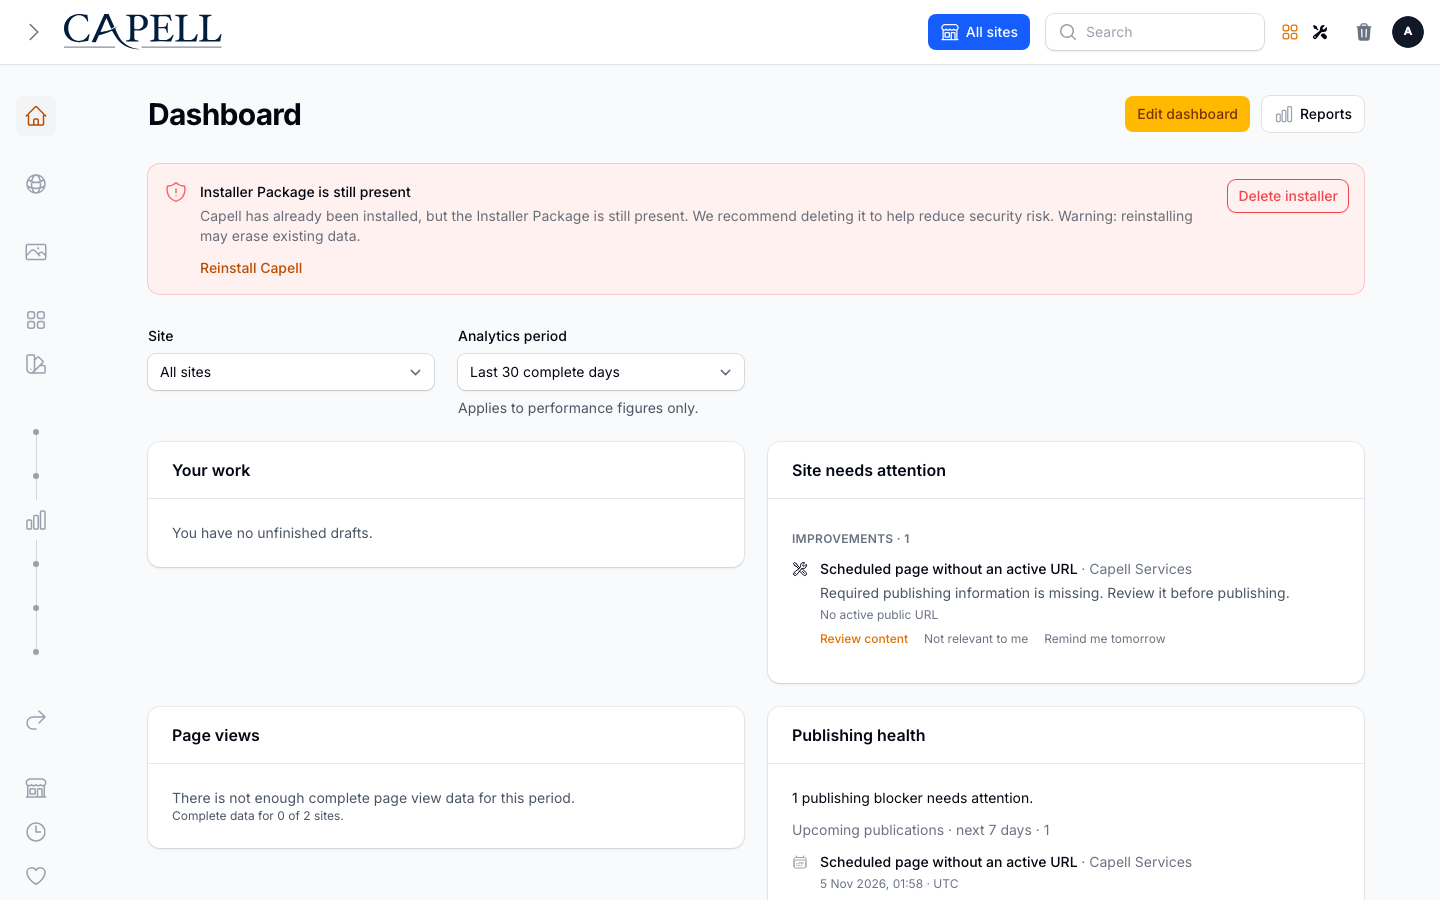
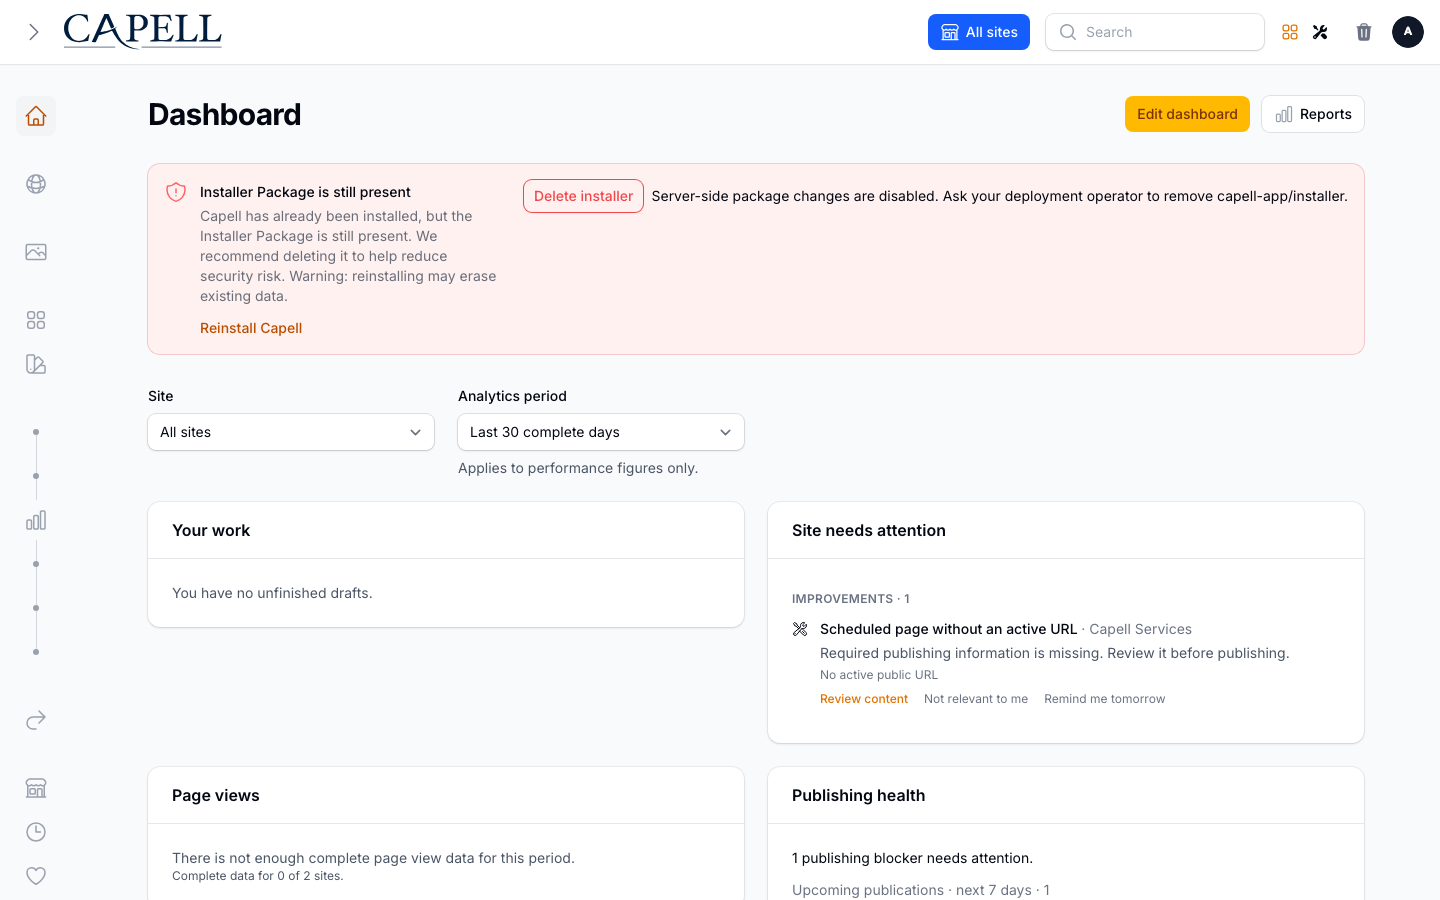
docs(admin): refresh verified dashboard captures and recovery evidence

diff --git a/docs/admin/dashboard-work-first-implementation.md b/docs/admin/dashboard-work-first-implementation.md
@@ -32,14 +32,14 @@ verification are tracked separately by the coordinating checkout.
 
 | Requirement                                        | Evidence and outstanding work                                                                                                                                                                                                                                                                                                                                                                                                           |
 | -------------------------------------------------- | --------------------------------------------------------------------------------------------------------------------------------------------------------------------------------------------------------------------------------------------------------------------------------------------------------------------------------------------------------------------------------------------------------------------------------------- |
-| Master fallback and per-widget switches            | Covered in `DefaultDashboardWidgetsTest.php`; disabled work and approvals provider calls are covered in `PersonalDraftsWidgetTest.php` and `ApprovalsWidgetTest.php`. The complete widget/job inventory still needs review.                                                                                                                                                                                                             |
+| Master fallback and per-widget switches | Focused configuration and provider-call tests cover the master fallback, short/class widget switches, mounted reads and preserved preferences. Native browser checks confirm master off/on behaviour. |
 | Personal layouts and scope                         | Order, hide/show, sizes, Save/Cancel, reset, separate site/All-sites storage and remembered scope have focused tests in `WorkFirstLayoutTest.php`, `WorkFirstScopeTest.php` and `AdminWorkspaceTest.php`. `WorkFirstStableRowsTest.php` covers update prompts and removal of unavailable rows. The chooser has grouped previews and separate ordering controls; it still needs shared-runner browser, keyboard and responsive evidence. |
-| Personal work and approvals                        | Authorised own drafts and provider scope forwarding have focused tests; Publishing Studio owns the provider implementation and separate integration evidence. End-to-end assignment, deadline priority, review onboarding and permission coverage remain outstanding.                                                                                                                                                                   |
-| Urgent summary, attention, publishing and activity | Separate work-first widgets are present; trace the coordinator’s tests and browser evidence before marking these complete. Optional content status and recently updated widgets are hidden by default and have site-scoped focused checks in `OptionalContentWidgetsTest.php`.                                                                                                                                                          |
+| Personal work and approvals | Native own-draft tests and Publishing Studio assignment/deadline/review tests cover scope and separate direct/shared counts. A real optional-provider browser fixture renders the inherited English approval and opens its comparison page; the fixture retains unrelated installation-health failures. |
+| Urgent summary, attention, publishing and activity | Purpose-designed widgets separate urgency and improvements, publishing readiness and meaningful activity. Verified recovery persists in bounded actor preferences, rechecks current permissions and contributor access, follows an authorised live UUID replacement, shows a 60-second confirmation and retains an accessible site/timezone history. Optional content status and recently updated widgets remain hidden by default. |
 | Analytics                                          | `BuildPageViewsActionTest.php` covers complete coverage, valid zero, disconnected, restricted role, failed fetch and stale cached figures. `VisitorsSnapshotTest.php` covers configured single-site visitor mapping and omits All-sites visitor totals. `BuildCompleteAnalyticsPeriodActionTest.php` covers complete source-local periods across DST. More multi-site, stale, source and browser cases remain.                          |
 | Popular and rising                                 | `PageRankingsTest.php` covers populated and insufficient states, mapping, site selection and thresholds. The default source cannot supply page rankings; configured external providers need separate integration evidence.                                                                                                                                                                                                              |
-| Accessibility and visual acceptance                | Shared-runner light/dark captures use clean source and zero browser/backend diagnostics. Native browser checks cover populated/empty states, 390px stacking, keyboard chooser/reorder/resize, Save/Cancel/restore and master-switch fallback with preserved preferences. Real optional approval-provider browser acceptance and some restricted/multilingual/failure states remain outstanding; diagnostic captures are not promoted.   |
-| Full verification                                  | Affected dashboard, workspace and architecture checks pass 331 tests/1,432 assertions; installer path ordering and repair have 13 tests/37 assertions and fresh-install evidence. Configured screenshot validation and scoped PHPStan pass. The full gate previously reported unrelated Frontend failures; the final full gate, local matrix, coverage threshold and hosted checks remain required.                                     |
+| Accessibility and visual acceptance | Fresh shared-runner light/dark captures use clean source f74d5d917 and runner d37f411, with zero browser/backend diagnostics. Native browser checks cover populated/empty states, 390px stacking, keyboard chooser/reorder/resize, Save/Cancel/restore and master fallback. The optional fixture proves English approvals and the recovery/history/acknowledgement flow; it recorded one unattributed resource 404 and is diagnostic evidence only. |
+| Full verification | The prior integrated full preflight and 91.68% coverage passed. The guarded 19-cell compatibility matrix passed on fa57ce5b2; final recovery changes have focused behaviour/architecture and browser evidence. Final-tree full preflight, coverage and companion exhaustive gates remain in progress; this inventory does not claim release approval. |
 
 No optional integration is claimed merely because an unavailable state renders.
 
@@ -115,7 +115,7 @@ under `capell-admin.dashboard.work_first.analytics.visitors` and
 provider's labels. Unsupported engagement and conversion measures are omitted.
 
 Site and language choices, personal layouts and advisory decisions are stored
-per user in the existing `admin_workspace_preferences` JSON column. Site-specific
+per user in the existing `admin_workspace_preferences` JSON column. Recovery observations and history use the same actor-owned storage, bounded to 20 scopes, 100 observations per scope and 50 history records; disabling the feature preserves that state. Site-specific
 layouts are shared across individual sites; the All-sites layout is separate.
 
 ## Installation recovery boundary
